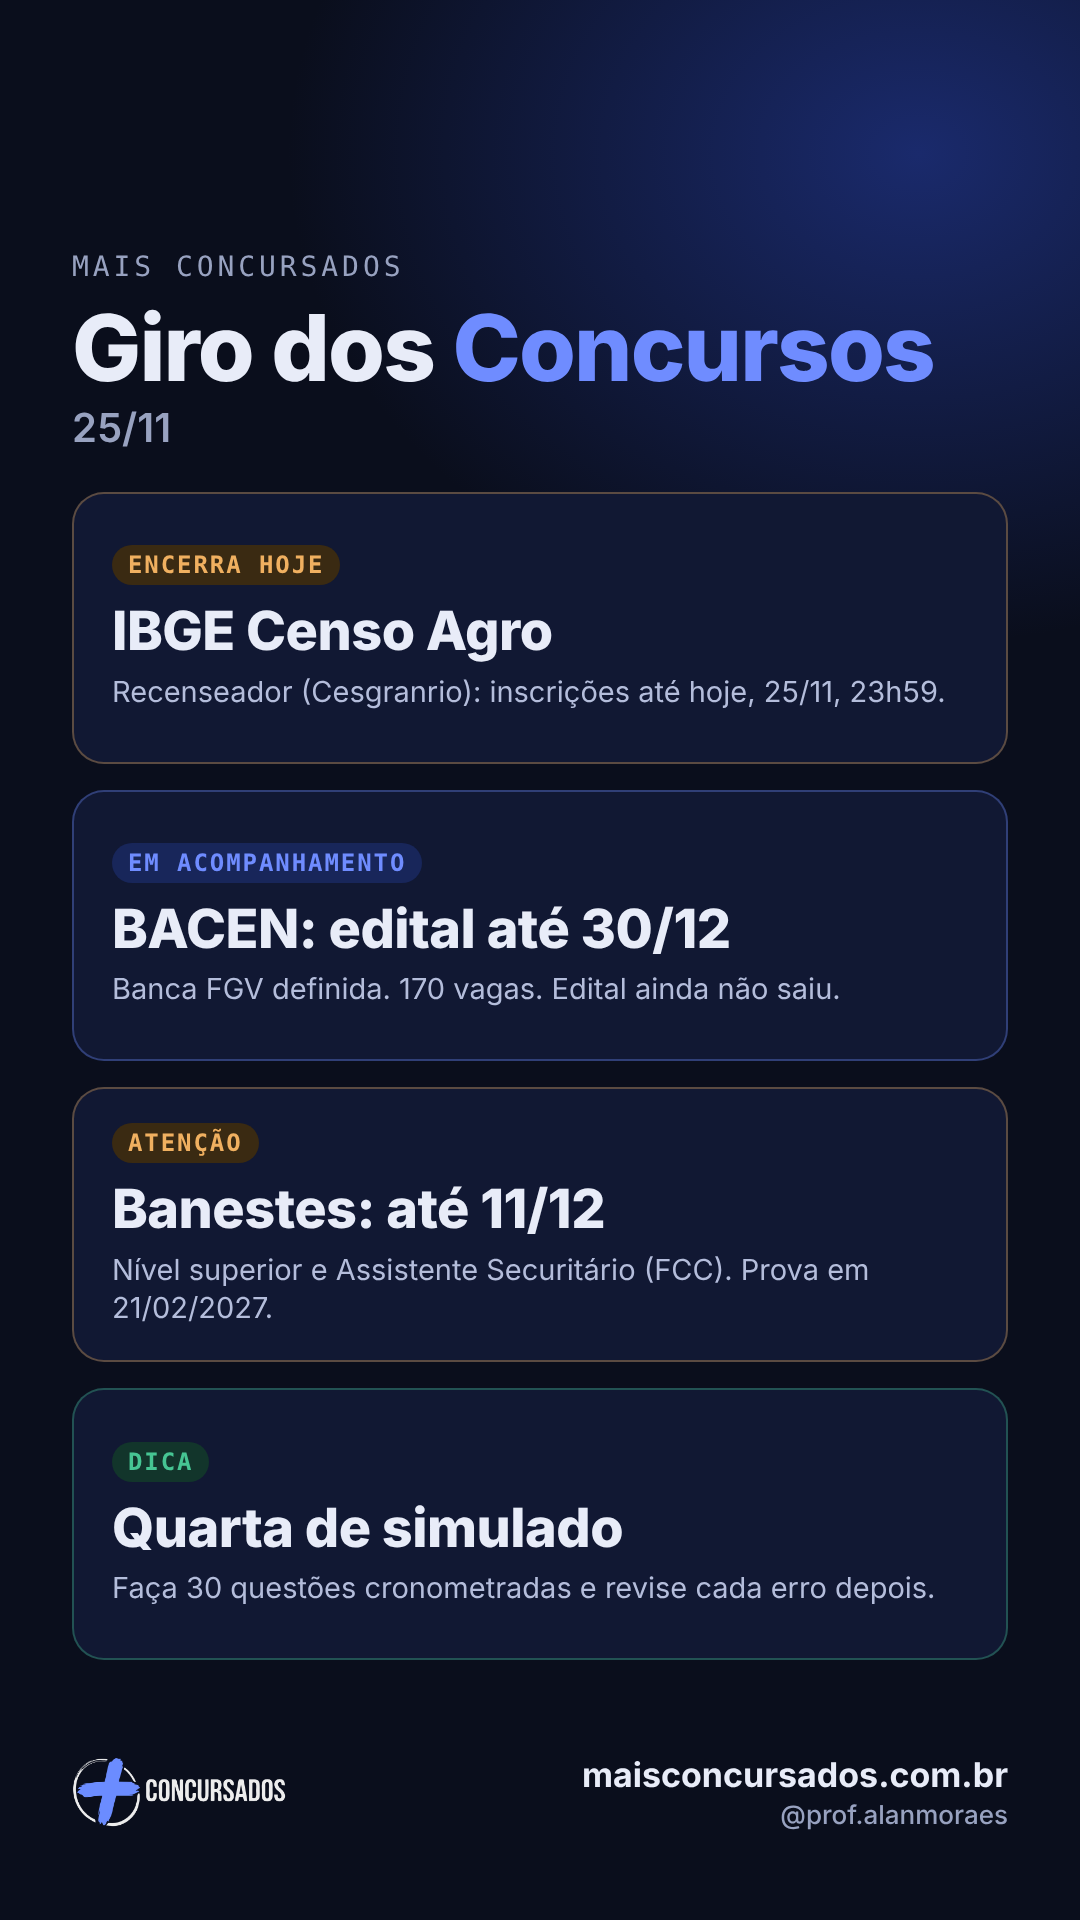
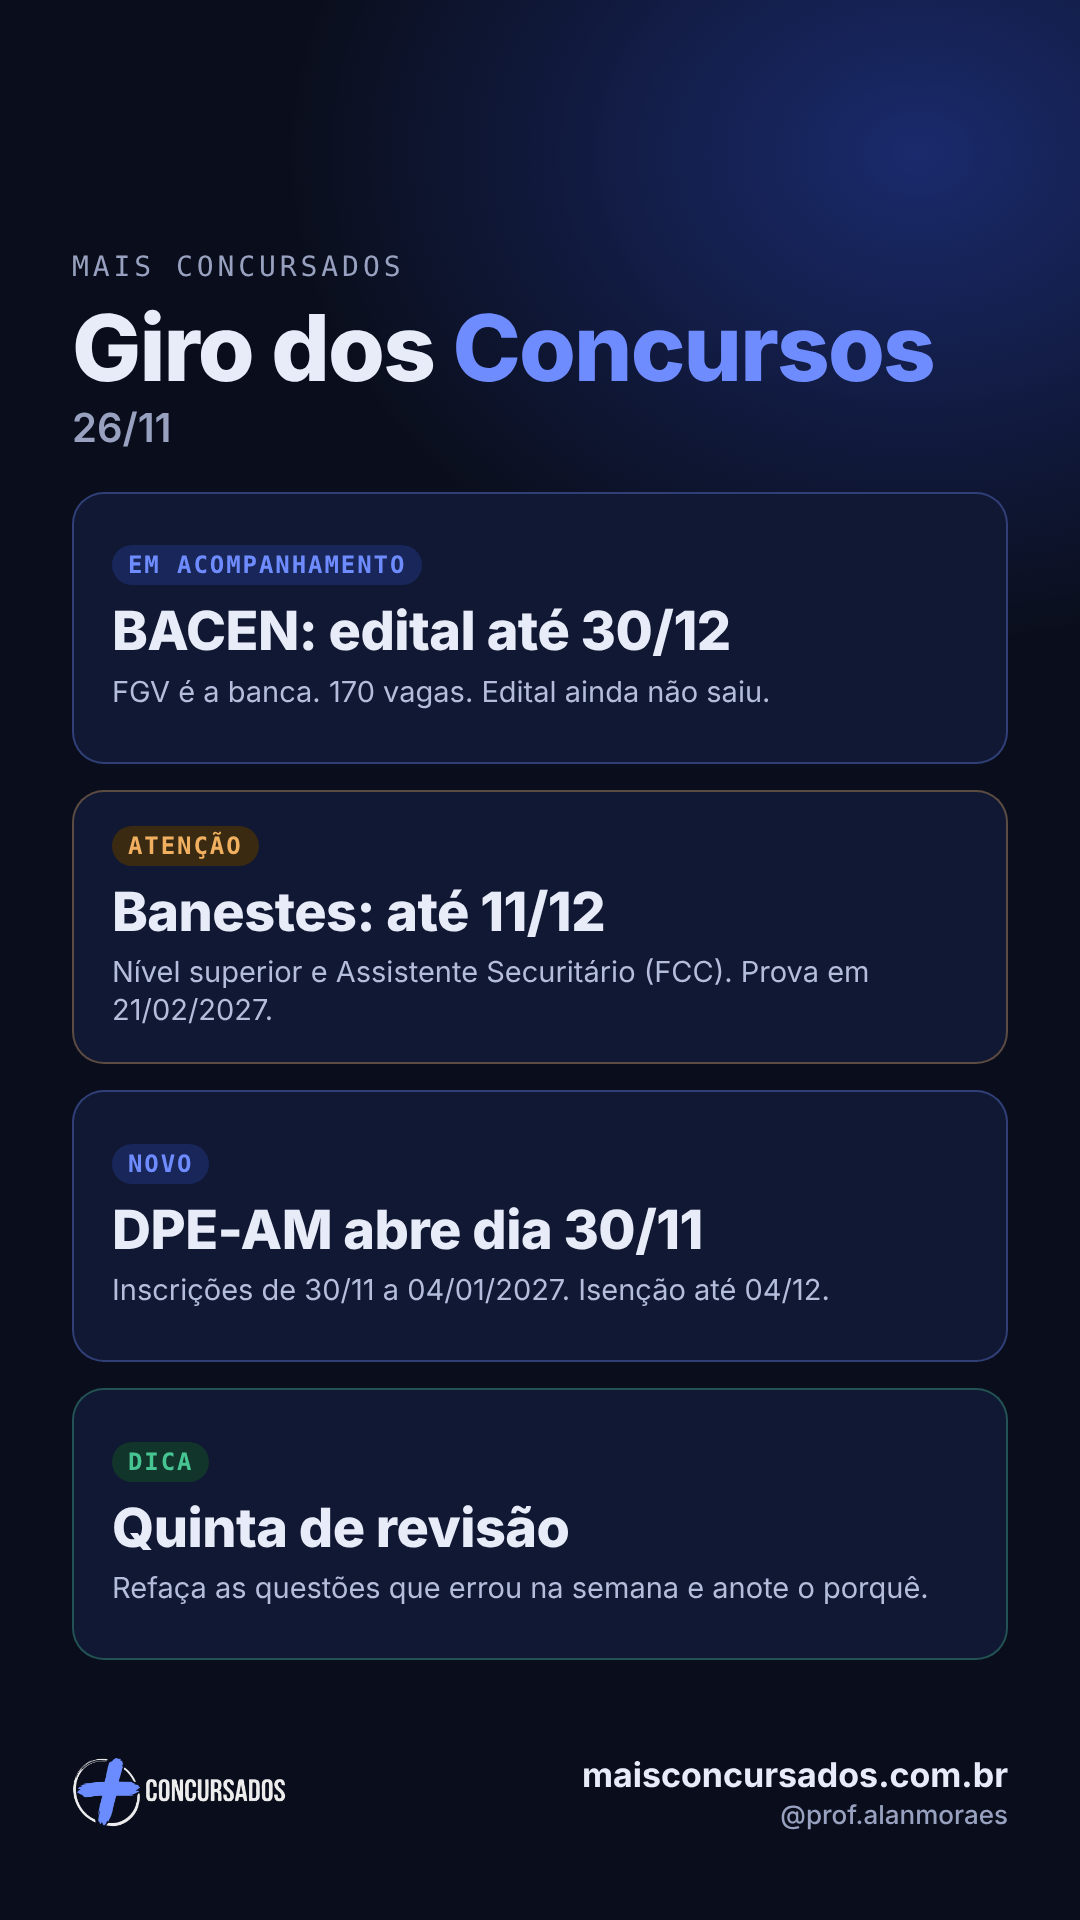
Giro dos Concursos 26/11: IBGE encerrado e arte de Stories
Claude-Session: https://claude.ai/code/session_01A4P6MbUXa8k7zK9sMzyHuh

diff --git a/site/editais.html b/site/editais.html
@@ -48,7 +48,7 @@
 </main>
 <footer><div class="wrap"><div><h4>Mais Concursados</h4><p>Editais de concursos de todas as áreas, com destaque para os bancários, e estudo com método para quem quer a aprovação. Por Alan Moraes, bancário, professor e mentor para concursos.</p></div><div><h4>Navegue</h4><ul><li><a href="editais.html">Editais</a></li><li><a href="cursos.html">Cursos</a></li><li><a href="blog.html">Blog</a></li><li><a href="mentorias.html">Mentorias</a></li><li><a href="area-do-aluno.html">Área do aluno</a></li></ul></div><div><h4>Institucional</h4><ul><li><a href="sobre.html">Sobre o Alan</a></li><li><a href="contato.html">Contato</a></li><li><a href="privacidade.html">Política de privacidade</a></li></ul></div><p class="legal">© 2026 Mais Concursados · maisconcursados.com.br. As informações de editais vêm de portais de notícias e devem ser conferidas no edital oficial. O Mais Concursados não é banca organizadora nem órgão público.</p></div></footer>
 <script type="application/json" id="editais-data">{
- "atualizadoEm": "2026-11-25",
+ "atualizadoEm": "2026-11-26",
  "aviso": "Conferido em 13/10/2026 no texto dos editais e em pelo menos duas fontes independentes. Os sites das bancas bloquearam a leitura automática, por isso confirme sempre no edital oficial antes de se inscrever.",
  "editais": [
   {
@@ -295,7 +295,7 @@
      "url": "https://ceisc.com.br/blog/post/banco-central-do-brasil-assina-contrato-com-a-fgv-e-novo-edital-e-iminente"
     }
    ],
-   "conferidoEm": "2026-11-24"
+   "conferidoEm": "2026-11-26"
   },
   {
    "id": "receita-federal",
@@ -737,13 +737,13 @@
    "org": "IBGE (Censo Agropecuário)",
    "cargo": "Recenseador (processo seletivo temporário)",
    "area": "outros",
-   "status": "aberto",
+   "status": "encerrado",
    "banca": "Cesgranrio",
    "vagas": 27279,
    "vagasTexto": "27.279 temporárias",
    "salario": "Parcela fixa R$ 1.741 + variável por produtividade (confira no edital)",
    "inscricoesAte": "2026-11-25",
-   "obs": "Edital nº 03/2026 publicado em 05/11/2026. Inscrições de 06/11 (10h) a 25/11/2026 (23h59), só pelo site da Cesgranrio. Taxa R$ 70. Confira escolaridade e remuneração no edital completo, pois os portais divergem.",
+   "obs": "Edital nº 03/2026 publicado em 05/11/2026. Inscrições de 06/11 (10h) a 25/11/2026 (23h59), só pelo site da Cesgranrio. Taxa R$ 70. Confira escolaridade e remuneração no edital completo, pois os portais divergem. Inscrições encerradas em 25/11/2026 (23h59); sem prorrogação localizada.",
    "validado": true,
    "fontes": [
     {
@@ -759,7 +759,7 @@
      "url": "https://blog.grancursosonline.com.br/concurso-ibge-temporarios-recenseador-edital-publicado-2026/"
     }
    ],
-   "conferidoEm": "2026-11-09"
+   "conferidoEm": "2026-11-26"
   },
   {
    "id": "pc-ac",

diff --git a/site/index.html b/site/index.html
@@ -72,7 +72,7 @@
 </main>
 <footer><div class="wrap"><div><h4>Mais Concursados</h4><p>Editais de concursos de todas as áreas, com destaque para os bancários, e estudo com método para quem quer a aprovação. Por Alan Moraes, bancário, professor e mentor para concursos.</p></div><div><h4>Navegue</h4><ul><li><a href="editais.html">Editais</a></li><li><a href="cursos.html">Cursos</a></li><li><a href="blog.html">Blog</a></li><li><a href="mentorias.html">Mentorias</a></li><li><a href="area-do-aluno.html">Área do aluno</a></li></ul></div><div><h4>Institucional</h4><ul><li><a href="sobre.html">Sobre o Alan</a></li><li><a href="contato.html">Contato</a></li><li><a href="privacidade.html">Política de privacidade</a></li></ul></div><p class="legal">© 2026 Mais Concursados · maisconcursados.com.br. As informações de editais vêm de portais de notícias e devem ser conferidas no edital oficial. O Mais Concursados não é banca organizadora nem órgão público.</p></div></footer>
 <script type="application/json" id="editais-data">{
- "atualizadoEm": "2026-11-25",
+ "atualizadoEm": "2026-11-26",
  "aviso": "Conferido em 13/10/2026 no texto dos editais e em pelo menos duas fontes independentes. Os sites das bancas bloquearam a leitura automática, por isso confirme sempre no edital oficial antes de se inscrever.",
  "editais": [
   {
@@ -319,7 +319,7 @@
      "url": "https://ceisc.com.br/blog/post/banco-central-do-brasil-assina-contrato-com-a-fgv-e-novo-edital-e-iminente"
     }
    ],
-   "conferidoEm": "2026-11-24"
+   "conferidoEm": "2026-11-26"
   },
   {
    "id": "receita-federal",
@@ -761,13 +761,13 @@
    "org": "IBGE (Censo Agropecuário)",
    "cargo": "Recenseador (processo seletivo temporário)",
    "area": "outros",
-   "status": "aberto",
+   "status": "encerrado",
    "banca": "Cesgranrio",
    "vagas": 27279,
    "vagasTexto": "27.279 temporárias",
    "salario": "Parcela fixa R$ 1.741 + variável por produtividade (confira no edital)",
    "inscricoesAte": "2026-11-25",
-   "obs": "Edital nº 03/2026 publicado em 05/11/2026. Inscrições de 06/11 (10h) a 25/11/2026 (23h59), só pelo site da Cesgranrio. Taxa R$ 70. Confira escolaridade e remuneração no edital completo, pois os portais divergem.",
+   "obs": "Edital nº 03/2026 publicado em 05/11/2026. Inscrições de 06/11 (10h) a 25/11/2026 (23h59), só pelo site da Cesgranrio. Taxa R$ 70. Confira escolaridade e remuneração no edital completo, pois os portais divergem. Inscrições encerradas em 25/11/2026 (23h59); sem prorrogação localizada.",
    "validado": true,
    "fontes": [
     {
@@ -783,7 +783,7 @@
      "url": "https://blog.grancursosonline.com.br/concurso-ibge-temporarios-recenseador-edital-publicado-2026/"
     }
    ],
-   "conferidoEm": "2026-11-09"
+   "conferidoEm": "2026-11-26"
   },
   {
    "id": "pc-ac",
